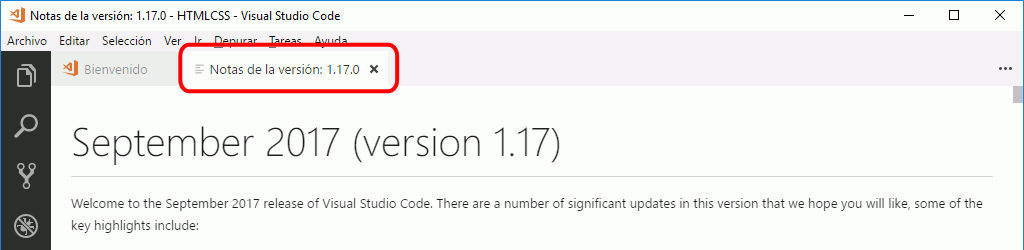
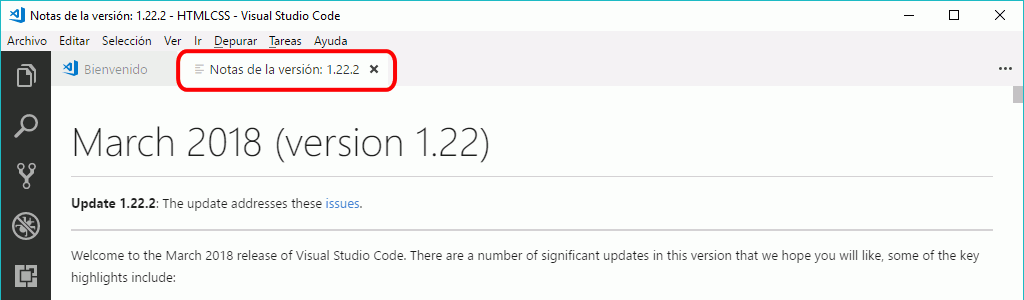
Actualizo capturas VSCode actualización

diff --git a/lecciones/vsc-instalacion.html b/lecciones/vsc-instalacion.html
@@ -105,6 +105,8 @@
         <text x="671" y="25" text-anchor="middle" fill="#373277" style="font-size: 90%; font-weight: bold">1.21</text>
         <circle cx="691" cy="0" r="5" fill="#373277" />
         <text x="691" y="-15" text-anchor="middle" fill="#373277" style="font-size: 90%; font-weight: bold">1.22</text>
+        <circle cx="711" cy="0" r="5" fill="white" stroke="#373277" stroke-width="2" />
+        <text x="711" y="25" text-anchor="middle" fill="#373277" style="font-size: 90%; font-weight: bold">1.23</text>
         <!--
         <circle cx="671" cy="0" r="5" fill="white" stroke="#373277" stroke-width="2" />
         <text x="671" y="25" text-anchor="middle" fill="#373277" style="font-size: 90%; font-weight: bold">1.21</text>
@@ -291,7 +293,7 @@
 
       <li>Una vez completada la actualización, se abrirá Visual Studio Code mostrando en una pestaña las notas de la versión, que comentan las novedades más importantes:
         <p class="captura">
-          <img src="../img/vscode/vsc-actualizar-6.png" alt="Visual Studio Code - Actualización 6" width="1024" height="250" />
+          <img src="../img/vscode/vsc-actualizar-6.png" alt="Visual Studio Code - Actualización 6" width="1024" height="300" />
         </p>
       </li>
     </ol>
@@ -307,7 +309,7 @@
   </section>
 
   <footer>
-    <p class="ultmod">Última modificación de esta página: 7 de abril de 2018</p>
+    <p class="ultmod">Última modificación de esta página: 15 de abril de 2018</p>
 
     <p class="licencia"><a rel="license" href="https://creativecommons.org/licenses/by-sa/4.0/deed.es_ES"><img src="../varios/iconos/icono-cc-by-sa.svg" alt="Licencia Creative Commons" title="Licencia Creative Commons BY-SA" width="120" height="42" /></a><br />
       Esta página forma parte del curso <a href="http://www.mclibre.org/consultar/informatica/">Temas de Informática</a> por <a href="http://www.mclibre.org/">Bartolomé Sintes Marco</a><br />
